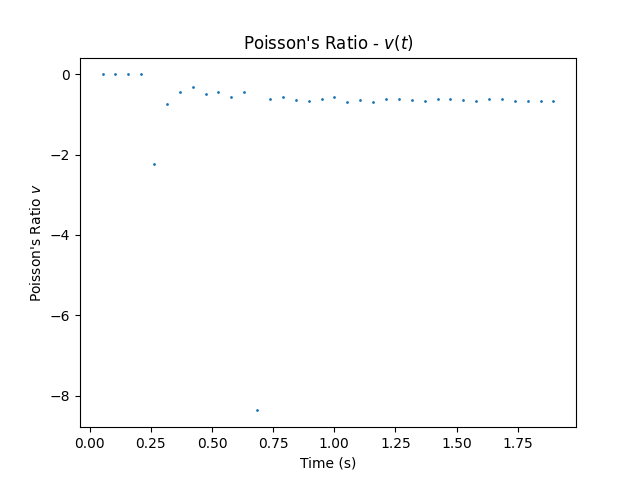
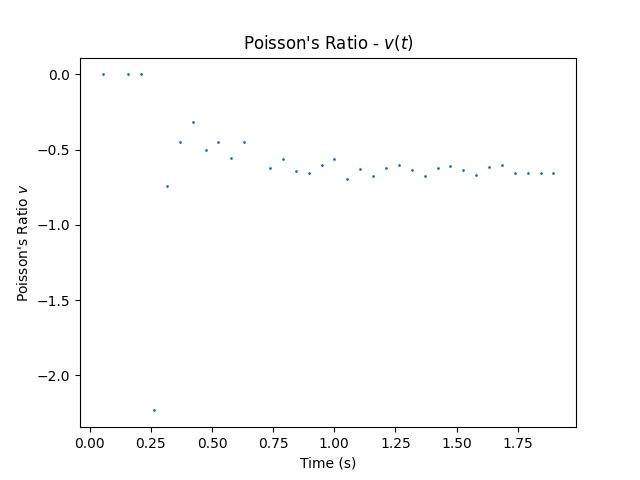
outlier removal tool

diff --git a/main.py b/main.py
@@ -11,6 +11,9 @@ from tkinter import ttk
 from tkinter import filedialog
 import screeninfo
 from PIL import Image, ImageTk
+import matplotlib
+from matplotlib.backends.backend_tkagg import FigureCanvasTkAgg
+import matplotlib.pyplot as plt
 
 import os
 import sys
@@ -113,13 +116,15 @@ class TrackingUI:
         # submit buttons
         submit_frame = tk.Frame()
         track_btn = ttk.Button(submit_frame, text="Begin tracking", command=self.on_submit_tracking, style='Regular.TButton')
-        track_btn.grid(row=0, column=0, columnspan=2, padx=32, pady=24)
+        track_btn.grid(row=0, column=0, columnspan=2, padx=32, pady=(24,4))
+        remove_outliers_button = ttk.Button(submit_frame, text="Remove outliers", command=self.remove_outliers, style='Regular.TButton')
+        remove_outliers_button.grid(row=1, column=0, columnspan=2, padx=32, pady=(4,24))
         marker_deltas_btn = ttk.Button(submit_frame, text="Marker deltas analysis", command=analysis.analyze_marker_deltas, style='Regular.TButton')
-        marker_deltas_btn.grid(row=1, column=0, padx=4, pady=4)
+        marker_deltas_btn.grid(row=2, column=0, padx=4, pady=4)
         necking_pt_btn = ttk.Button(submit_frame, text="Necking point analysis", command=analysis.analyze_necking_point, style='Regular.TButton')
-        necking_pt_btn.grid(row=1, column=1, padx=4, pady=4)
+        necking_pt_btn.grid(row=2, column=1, padx=4, pady=4)
         poissons_ratio_btn = ttk.Button(submit_frame, text="Poisson's ratio", command=analysis.poissons_ratio, style='Regular.TButton')
-        poissons_ratio_btn.grid(row=2, column=0, columnspan=2, padx=4, pady=4)
+        poissons_ratio_btn.grid(row=3, column=0, columnspan=2, padx=4, pady=4)
         exit_btn = ttk.Button(submit_frame, text='Exit', command=sys.exit, style='Regular.TButton')
         exit_btn.grid(row=10, column=0, columnspan=2, padx=32, pady=(24,12))
         submit_frame.grid(row=20, column=0)
@@ -130,6 +135,9 @@ class TrackingUI:
         else:
             msg = "Select a video before opening the frame selector"
             error_popup(msg)
+
+    def remove_outliers(self):
+        OutlierRemoval(self.root)
 
     def handle_radios(self):
         """blits options for the corresponding radio button selected"""        
@@ -293,6 +301,106 @@ class FrameSelector:
         self.parent_label_var.set(f"Frame start: {self.frame_start_select}, Frame end: {self.frame_end_select}")
         print("Selections confirmed!")
 
+
+class OutlierRemoval:
+    def __init__(self, parent):
+        self.parent = parent
+        self.window = tk.Toplevel(self.parent)
+        self.parent.title("Select outlier points to remove them")
+
+        self.fig = None
+        self.canvas = None
+
+        # file options
+        self.output_files = {
+            'marker_tracking': 'output/Tracking_Output.csv',
+            'necking_point': 'output/Necking_Point_Output.csv'
+        }
+
+        self.selected_file = tk.StringVar()
+        # radio buttons for file selection
+        self.marker_radio = ttk.Radiobutton(self.window, text="Marker tracking output", variable=self.selected_file, value=self.output_files['marker_tracking'], command=self.load_plot)
+        self.marker_radio.pack()
+        self.necking_radio = ttk.Radiobutton(self.window, text="Necking point output", variable=self.selected_file, value=self.output_files['necking_point'], command=self.load_plot)
+        self.necking_radio.pack()
+
+        self.undo_removals_button = ttk.Button(self.window, text="Undo Selections", command=self.undo_selections)
+        self.undo_removals_button.pack(pady=12)
+        self.confirm_button = ttk.Button(self.window, text="Confirm Removal", comman=self.confirm)
+        self.confirm_button.pack()
+
+    def load_data(self, is_updating=False):
+        if not is_updating:
+            fp = self.selected_file.get()
+            self.df = pd.read_csv(fp)
+
+        # get appropriate columns
+        self.x_col = 'Time(s)'
+        self.x = list(self.df[self.x_col].unique())
+        self.y = None
+        if self.selected_file.get().__contains__('Tracking'):
+            _, self.y = analysis.analyze_marker_deltas(self.df, False)
+        if self.selected_file.get().__contains__('Necking'):
+            _, self.y = analysis.analyze_necking_point(self.df, False)
+
+    def create_figure(self):
+        # Create a new figure and axes
+        if not self.fig:
+            self.fig, self.ax = plt.subplots()
+
+    def plot_data(self, is_updating=False):
+        self.load_data(is_updating)
+
+        # Clear existing figure and axes
+        if self.ax:
+            self.ax.clear()
+        else:
+            self.create_figure()
+        self.plot = self.ax.scatter(self.x, self.y, picker=True)
+
+        # only draw if new canvas
+        if self.canvas:
+            self.canvas.get_tk_widget().destroy()
+        self.canvas = FigureCanvasTkAgg(self.fig, master=self.window)
+        self.canvas.get_tk_widget().pack()
+        self.fig.canvas.mpl_connect('pick_event', self.onclick)
+
+    def onclick(self, event):
+        if event.name == 'pick_event':
+            x_click = event.mouseevent.xdata
+            idx = (np.abs(self.x - x_click)).argmin() # remove closest point
+            print(idx)
+
+            # find and remove clicked pt
+            x = self.df.iloc[idx][self.x_col]
+            idx_remove = self.df[self.df[self.x_col] == x].index
+            self.df.drop(index=idx_remove, inplace=True)
+            self.df.reset_index(inplace=True, drop=True)
+            del self.y[idx_remove[0]]
+            del self.x[idx_remove[0]]
+            print(x, idx_remove, self.df)
+
+            # update plot
+            self.plot_data(True)
+            self.plot.set_offsets(list(zip(self.x, self.y)))
+            self.canvas.draw()
+
+    def undo_selections(self):
+        plt.clf()
+        self.fig = None
+        self.ax = None
+        self.plot_data()
+
+    def confirm(self):
+        #fp, ext = os.path.splitext(self.selected_file.get())
+        #self.output_fp = fp + '_outliers_removed' + ext
+        self.df.to_csv(self.selected_file.get())
+
+    def load_plot(self):
+        self.create_figure()
+        self.plot_data()
+
+
 def scale_frame(frame, scale_factor=0.9):
     monitor = screeninfo.get_monitors()[0] # get primary monitor resolution
 
@@ -305,7 +413,6 @@ def scale_frame(frame, scale_factor=0.9):
     # resize based on scale factors
     scaled_frame = cv2.resize(frame, (int(frame.shape[1] * min_scale_factor), int(frame.shape[0] * min_scale_factor)))
     return scaled_frame, min_scale_factor
-
 
 def mouse_callback(event, x, y, flags, params):
     """handle mouse clicks during software execution

diff --git a/analysis.py b/analysis.py
@@ -51,13 +51,14 @@ def plot_data(x, y, plot_args):
     
     return fig, ax
 
-def analyze_marker_deltas():
+def analyze_marker_deltas(df=None, will_save_figures=True):
     """plots euclidean distance between tracked fiducial marker data
     reads data from 'output/Tracking_Output.csv' which is created in the marker tracking process
     saves plot to the 'figures' folder
     """    
     print("Analyzing tracked marker distances...")
-    df = pd.read_csv("output/Tracking_Output.csv") # open csv created/modified from marker tracking process
+    if not isinstance(df, pd.DataFrame):
+        df = pd.read_csv("output/Tracking_Output.csv") # open csv created/modified from marker tracking process
     print(df.head())
 
     # ensure only 2 markers were selected
@@ -95,28 +96,30 @@ def analyze_marker_deltas():
         'has_legend': False
     }
 
-    # plot marker distances
-    fig, ax = plot_data(time, marker_distances, plot_args)
-    fig.savefig("figures/marker_deltas.png")
+    if will_save_figures:
+        # plot marker distances
+        fig, ax = plot_data(time, marker_distances, plot_args)
+        fig.savefig("figures/marker_deltas.png")
 
-    # plot longitudinal strain
-    plot_args['title'] = r'Longitudinal strain - ${\epsilon}_{l}(t)$'
-    plot_args['y_label'] = r'${\epsilon}_{l}$'
-    longitudinal_strain_fig, longitudinal_strain_ax = plot_data(time, longitudinal_strain, plot_args)
-    longitudinal_strain_fig.savefig("figures/longitudinal_strain.png")
+        # plot longitudinal strain
+        plot_args['title'] = r'Longitudinal strain - ${\epsilon}_{l}(t)$'
+        plot_args['y_label'] = r'${\epsilon}_{l}$'
+        longitudinal_strain_fig, longitudinal_strain_ax = plot_data(time, longitudinal_strain, plot_args)
+        longitudinal_strain_fig.savefig("figures/longitudinal_strain.png")
 
     print("Done")
 
     return time, longitudinal_strain
 
 
-def analyze_necking_point():
+def analyze_necking_point(df=None, will_save_figures=True):
     """plots necking point data, x location of necking point against time, as well as diameter at necking point
     reads from 'output/Necking_Point_Output.csv' which is created in the necking point tracking process
     saves plot in 'figures' folder
     """    
     print("Analyzing necking point...")
-    df = pd.read_csv("output/Necking_Point_Output.csv") # open csv created/modified from marker tracking process
+    if not isinstance(df, pd.DataFrame):
+        df = pd.read_csv("output/Necking_Point_Output.csv") # open csv created/modified from marker tracking process
     print(df.head())
 
     time = df['Time(s)'].values
@@ -135,21 +138,22 @@ def analyze_necking_point():
         'has_legend': False
     }
 
-    # plot x location of necking point over time
-    necking_pt_loc_fig, necking_pt_loc_ax = plot_data(time, necking_pt_x, plot_args)
-    necking_pt_loc_fig.savefig("figures/necking_point_location.png")
+    if will_save_figures:
+        # plot x location of necking point over time
+        necking_pt_loc_fig, necking_pt_loc_ax = plot_data(time, necking_pt_x, plot_args)
+        necking_pt_loc_fig.savefig("figures/necking_point_location.png")
 
-    # plot diameter at necking point
-    plot_args['title'] = r'Diameter of Hydrogel at Necking Point' 
-    plot_args['y_label'] = 'Diameter (px)'
-    necking_pt_len_fig, necking_pt_len_ax = plot_data(time, necking_pt_len, plot_args)
-    necking_pt_len_fig.savefig("figures/diameter_at_necking_point.png")
+        # plot diameter at necking point
+        plot_args['title'] = r'Diameter of Hydrogel at Necking Point' 
+        plot_args['y_label'] = 'Diameter (px)'
+        necking_pt_len_fig, necking_pt_len_ax = plot_data(time, necking_pt_len, plot_args)
+        necking_pt_len_fig.savefig("figures/diameter_at_necking_point.png")
 
-    # plot radial strain
-    plot_args['title'] = r'Radial strain - ${\epsilon}_{r}(t)$'
-    plot_args['y_label'] = '${\epsilon}_{r}$'
-    radial_strain_fig, radial_strain_ax = plot_data(time, radial_strain, plot_args)
-    radial_strain_fig.savefig("figures/radial_strain.png")
+        # plot radial strain
+        plot_args['title'] = r'Radial strain - ${\epsilon}_{r}(t)$'
+        plot_args['y_label'] = '${\epsilon}_{r}$'
+        radial_strain_fig, radial_strain_ax = plot_data(time, radial_strain, plot_args)
+        radial_strain_fig.savefig("figures/radial_strain.png")
     print("Done")
 
     return time, radial_strain
@@ -161,21 +165,25 @@ def poissons_ratio():
     print("Finding Poisson's ratio...")
 
     # ensure tracking operations previously ran on the same data in the same time range
-    if not (marker_time[0] == necking_time[0] and marker_time[-1] == necking_time[-1] and len(marker_time) == len(necking_time)):
+    if not (marker_time[0] == necking_time[0] and marker_time[-1] == necking_time[-1]):
         msg = "Error: Found discrepancies in marker deltas output and necking point output.\n"+\
         "please ensure that both marker tracking and necking point detection are run on the same experiment within the same time frame."
         error_popup(msg)
 
-    time = marker_time # if passes error check, times are same
+    # align values, as time values in one may have some missing from the other (from outlier removal)
+    marker_df = pd.DataFrame({
+        'time': marker_time,
+        'long_strain': longitudinal_strain
+    })
+    necking_df = pd.DataFrame({
+        'time': necking_time,
+        'rad_strain': radial_strain
+    })
 
     # calculate poisson's ratio, radial / longitudinal
-    poisson_ratios = []
-    for i in range(len(time)):
-        if longitudinal_strain[i] != 0:
-            v = radial_strain[i] / longitudinal_strain[i]
-        else:
-            v = 0
-        poisson_ratios.append(v)
+    poissons_df = pd.merge(marker_df, necking_df, 'inner', 'time')
+    poissons_df['v'] = np.where(poissons_df['long_strain'] != 0, poissons_df['rad_strain'] / poissons_df['long_strain'], 0)
+    print(poissons_df)
 
     plot_args = {
         'title': r"Poisson's Ratio - $\mathit{v(t)}$",
@@ -185,7 +193,7 @@ def poissons_ratio():
         'has_legend': False
     }
 
-    poisson_fig, poisson_ax = plot_data(time, poisson_ratios, plot_args)
+    poisson_fig, poisson_ax = plot_data(poissons_df['time'], poissons_df['v'], plot_args)
     poisson_fig.savefig("figures/poissons_ratio.png")
 
     print("Done")

diff --git a/CHANGELOG.md b/CHANGELOG.md
@@ -7,11 +7,12 @@
     - artifacts outside the tube have edges being detected
 
 ## TODO
+Housekeeping
+- separate main into main (ui stuff), and tracking.py
+
 Hydrogel
-- poisson's ratio over time
 
 Multi purpose
-- open a plot and click points to remove for manual outliar removal
 - plot customs json from bratadio and reading capabilities
 
 Cell Mechanics
@@ -20,7 +21,6 @@ Cell Mechanics
    - total travel distance (RMS displacement)
    - velocity (pixels per frame)
 
-- gaussian blur before frame binarization?
 
 # Changelog
 
@@ -37,6 +37,11 @@ Cell Mechanics
     - error checks
     - calculate poissons ratio (radial strain / longitudinal strain)
     - plot
+- added outlier removal class to remove outlier points manually via interactive plot
+    - when button clicked user can select which output data they want to interact with
+        - marker tracker does not work properly as it plots distances and removing points does not directly correlate to distances
+    - when clicking points they are removed from plot and plot updates, as well as from data frame
+    - also included buttons to save selections and undo them as well
 
 
 2/16
